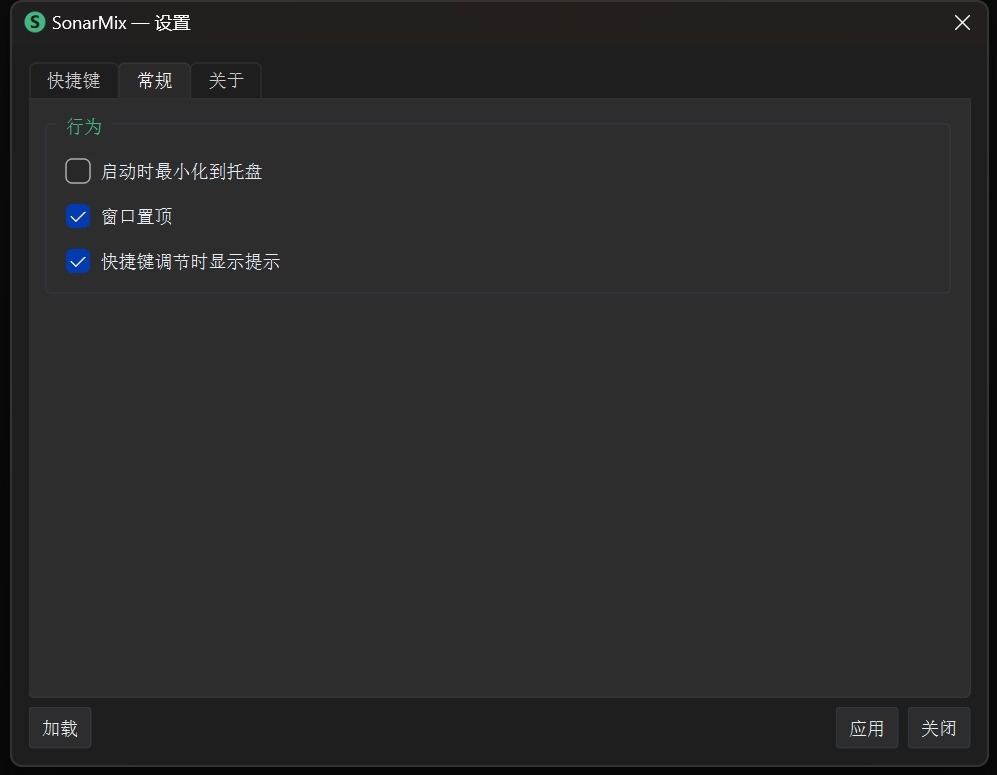
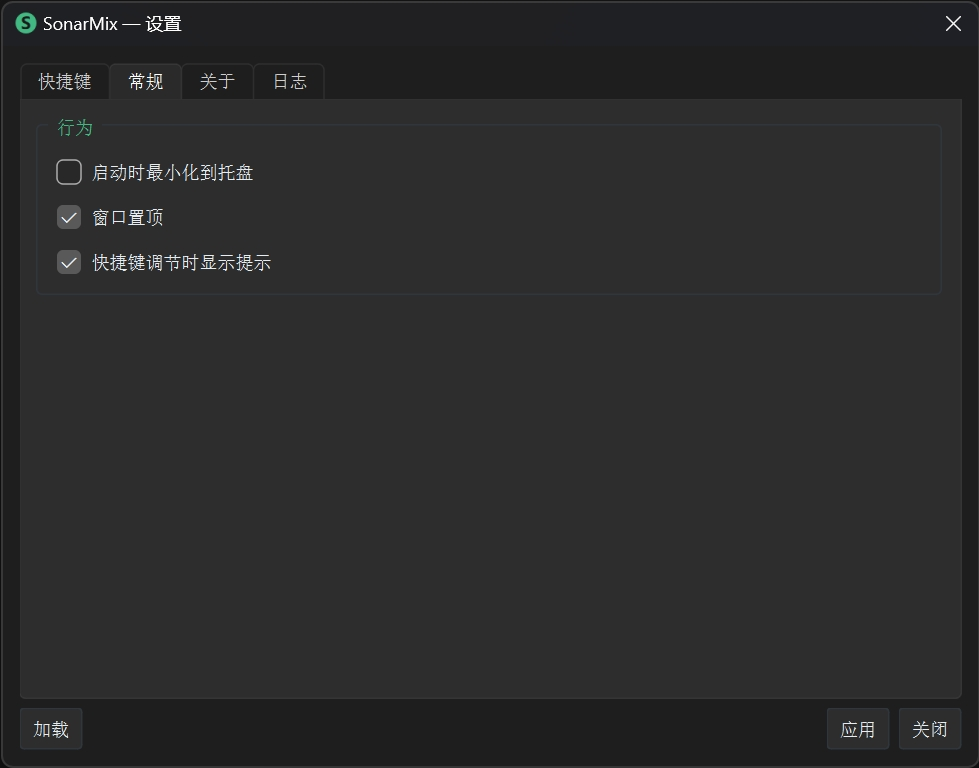
docs: update screenshots — gallery layout with classic mode, original size

diff --git a/README.md b/README.md
@@ -21,9 +21,22 @@
 ## Screenshots
 
 <p align="center">
-  <img src="screenshots/screenshot-streamer.png" height="360" alt="Streamer Mode"/>
-  &nbsp;
-  <img src="screenshots/screenshot-settings.png" height="360" alt="Settings"/>
+  <table align="center">
+    <tr>
+      <td align="center"><b>Classic Mode</b></td>
+      <td align="center"><b>Streamer Mode</b></td>
+    </tr>
+    <tr>
+      <td align="center"><img src="screenshots/screenshot-classic.png" alt="Classic Mode"/></td>
+      <td align="center"><img src="screenshots/screenshot-streamer.png" alt="Streamer Mode"/></td>
+    </tr>
+    <tr>
+      <td align="center" colspan="2"><b>Settings</b></td>
+    </tr>
+    <tr>
+      <td align="center" colspan="2"><img src="screenshots/screenshot-settings.png" alt="Settings"/></td>
+    </tr>
+  </table>
 </p>
 
 ---
@@ -131,7 +144,7 @@ SonarMix/
 
 ## Acknowledgments
 
-This project is built on [**steelseries-sonar-py**](https://github.com/Mark7888/steelseries-sonar-py) by [Mark7888](https://github.com/Mark7888) — the Python wrapper for SteelSeries GG Sonar's local HTTP API. All volume read/write and mode switching goes through this library.
+This project is built on [**steelseries-sonar-py**](https://github.com/Mark7888/steelseries-sonar-py) by [Mark7888](https://github.com/Mark7888), the Python wrapper for SteelSeries GG Sonar's local HTTP API.
 
 ---
 

diff --git a/README_zh.md b/README_zh.md
@@ -21,9 +21,22 @@
 ## 截图
 
 <p align="center">
-  <img src="screenshots/screenshot-streamer.png" height="360" alt="Streamer 模式"/>
-  &nbsp;
-  <img src="screenshots/screenshot-settings.png" height="360" alt="设置界面"/>
+  <table align="center">
+    <tr>
+      <td align="center"><b>Classic 模式</b></td>
+      <td align="center"><b>Streamer 模式</b></td>
+    </tr>
+    <tr>
+      <td align="center"><img src="screenshots/screenshot-classic.png" alt="Classic 模式"/></td>
+      <td align="center"><img src="screenshots/screenshot-streamer.png" alt="Streamer 模式"/></td>
+    </tr>
+    <tr>
+      <td align="center" colspan="2"><b>设置界面</b></td>
+    </tr>
+    <tr>
+      <td align="center" colspan="2"><img src="screenshots/screenshot-settings.png" alt="设置界面"/></td>
+    </tr>
+  </table>
 </p>
 
 ---
@@ -131,7 +144,7 @@ SonarMix/
 
 ## 致谢
 
-本项目基于 [**steelseries-sonar-py**](https://github.com/Mark7888/steelseries-sonar-py) 构建，由 [Mark7888](https://github.com/Mark7888) 开发——该库封装了 SteelSeries GG Sonar 的本地 HTTP API，所有音量读写与模式切换均通过此库完成。
+本项目基于 Mark7888 的 [**steelseries-sonar-py**](https://github.com/Mark7888/steelseries-sonar-py)，该库封装了 SteelSeries GG Sonar 的本地 HTTP API。
 
 ---
 
